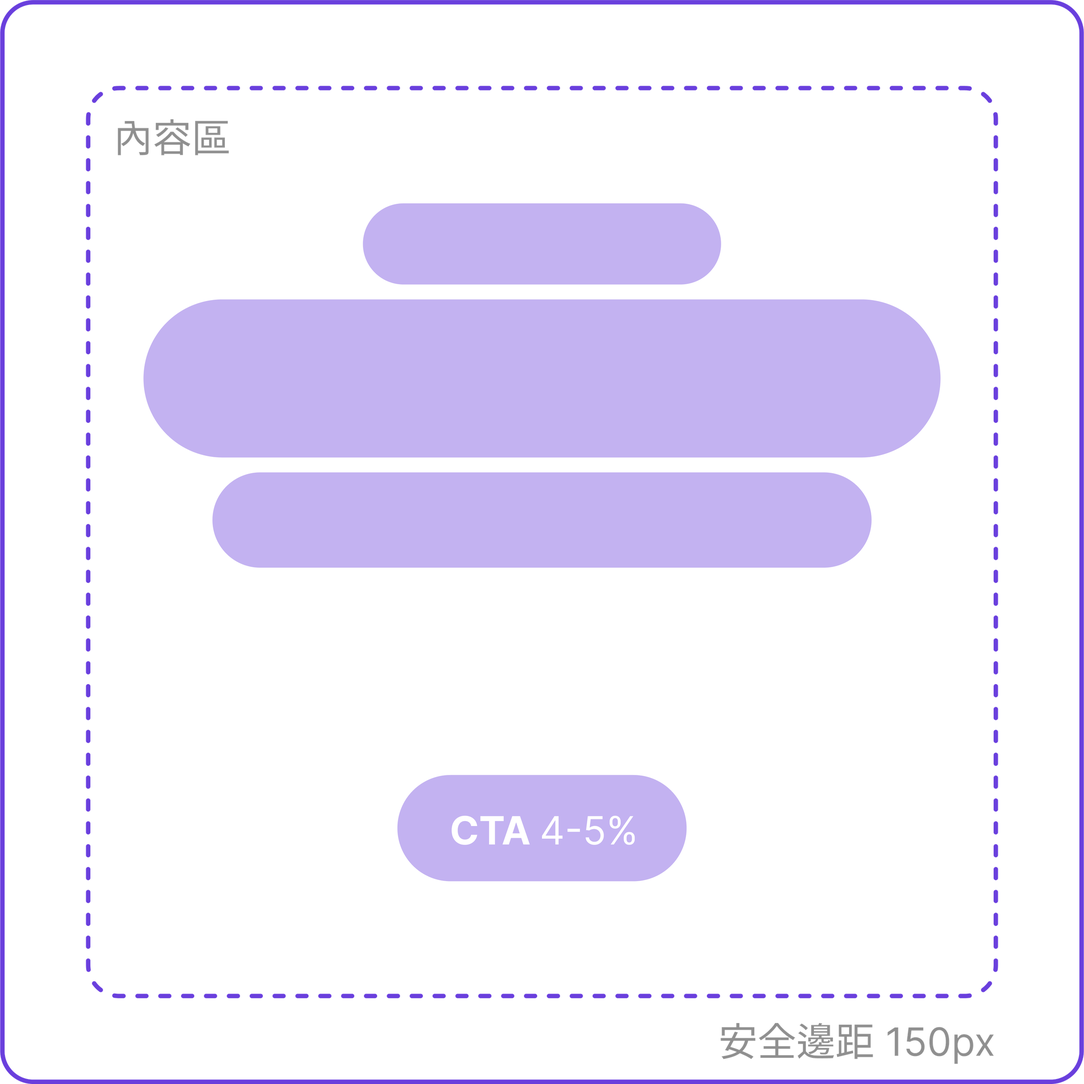
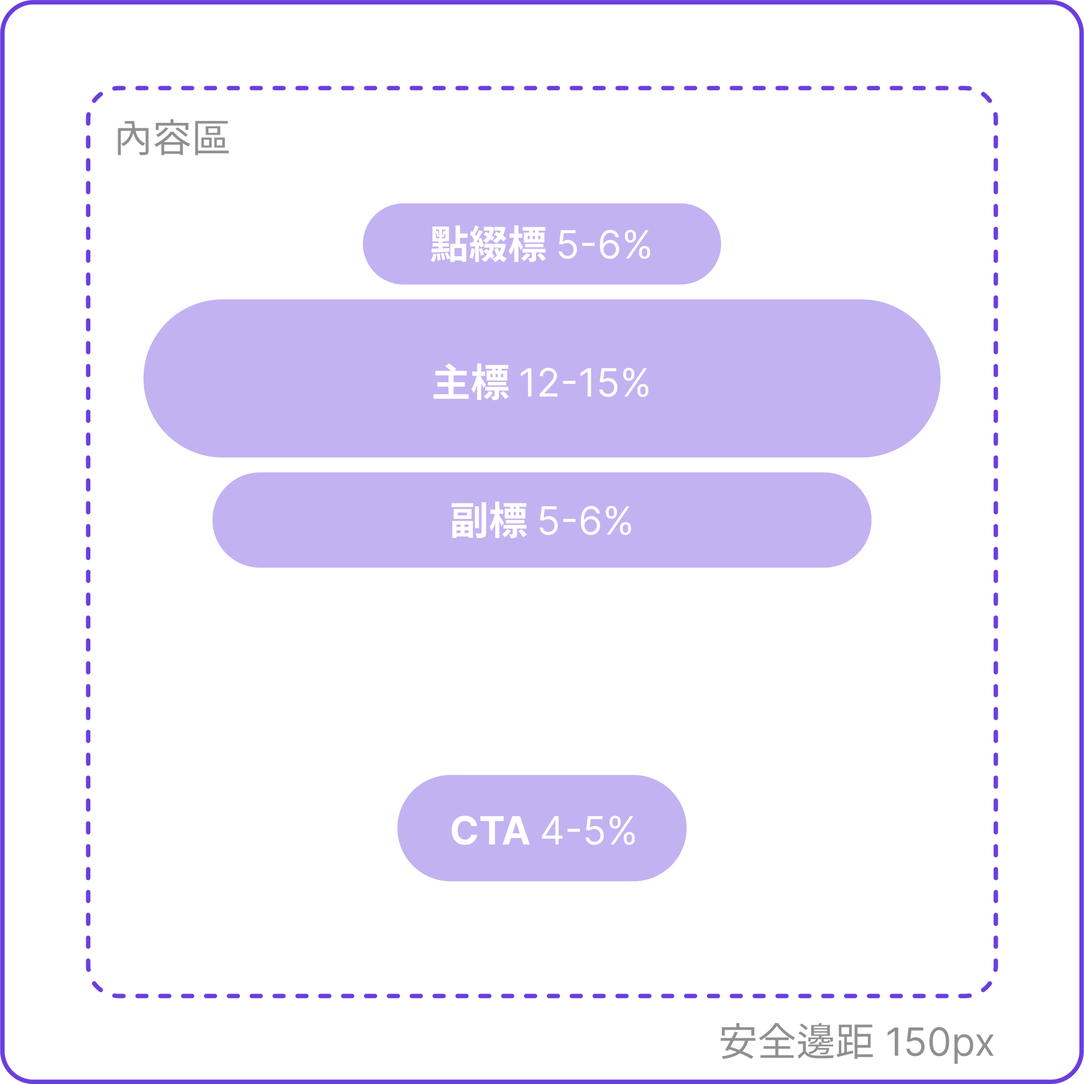
14 Prompt Skill: Rolled 條件改為對應產出圖的兩組模板、移除生成次數與規則行、Persona 按鈕加寬間距、更新 skill-01 圖
Claude-Session: https://claude.ai/code/session_01GjEy689vh6dg91TD7dTNVD

Changed region(s): [[0.375, 0.1851, 0.5938, 0.2468], [0.4062, 0.4627, 0.5938, 0.4935], [0.4062, 0.3393, 0.5938, 0.3702]]

diff --git a/works/work-14-skill.html b/works/work-14-skill.html
@@ -7,7 +7,7 @@
 <meta name="description" content="Jade Shih 作品：AI 廣告閉環中的 Agent B，設計三層 Prompt Skill，讓 AI 依 Persona 自動產出品牌一致、構圖多變的廣告圖。">
 <link rel="stylesheet" href="../jade-portfolio-ds/tokens.css?v=202611131750">
 <link rel="stylesheet" href="../jade-portfolio-ds/components/bundle.css?v=202611131750">
-<link rel="stylesheet" href="../site.css?v=202611191557">
+<link rel="stylesheet" href="../site.css?v=202611191720">
 </head>
 <body>
 <a class="skip" href="#main">跳到主要內容</a>
@@ -38,7 +38,7 @@
     </div>
     <div class="cs-cards"></div>
     <div class="cs-gallery"></div>
-    <section class="cs-sec"><header class="cs-sec__head"><p class="eyebrow">Context</p><h2 class="cs-sec__title">The Ad Loop<small>廣告閉環</small></h2><p class="cs-sec__lead">團隊用四個 AI Agent 串起廣告從產出、投放到成效追蹤的閉環。我負責其中的 Agent B：把每個 Persona 轉成 AI 能穩定執行的視覺規則，自動產出廣告圖。</p></header><ol class="sk-loop"><li class="sk-agent"><span class="sk-agent__tag">團隊</span><b>Agent A</b><strong>Mike 大腦</strong><small>給予內容</small></li><li class="sk-agent__arrow" aria-hidden="true">→</li><li class="sk-agent is-me"><span class="sk-agent__tag">我負責</span><b>Agent B</b><strong>生成圖片</strong><small>Prompt Skill・自動產圖</small></li><li class="sk-agent__arrow" aria-hidden="true">→</li><li class="sk-agent"><span class="sk-agent__tag">團隊</span><b>Agent C</b><strong>投放 Google</strong><small>後台執行</small></li><li class="sk-agent__arrow" aria-hidden="true">→</li><li class="sk-agent"><span class="sk-agent__tag">團隊</span><b>Agent D</b><strong>追蹤成效</strong><small>分析結果、建議行動</small></li></ol></section><section class="cs-sec ch-problem"><header class="cs-sec__head"><p class="eyebrow">The problem</p><h2 class="cs-sec__title">The AI Dilemma<small>AI 生圖的兩難</small></h2></header><p class="ch-big">每次一樣會膩，<em>每次亂變會走鐘。</em></p><div class="ch-pains sk-pains"><article class="ch-pain"><span class="ch-pain__no">01</span><h3>每次都一樣</h3><p>同一套 prompt 反覆產圖，構圖、角度都相同，受眾很快就看膩，廣告素材疲勞。</p></article><article class="ch-pain"><span class="ch-pain__no">02</span><h3>每次都亂變</h3><p>放任 AI 自由發揮，色系、風格、文字大小每張都不同，品牌感直接走鐘。</p></article></div></section><section class="cs-sec"><header class="cs-sec__head"><p class="eyebrow">The system</p><h2 class="cs-sec__title">Three-layer Prompt<small>三層 Prompt 架構</small></h2><p class="cs-sec__lead">我把一張廣告圖拆成「不能變」「可以怎麼變」「怎麼變」三層，品牌一致性和視覺多樣性就不再互相衝突。</p></header><div class="sk-layers"><article class="sk-layer" data-tone="lime"><p class="sk-layer__no">Layer 1</p><h3>Persona 固定元素<small>負責「不能變的」</small></h3><p>每個 Persona 一套固定規格：色系、背景公式、面板風格、是否使用作者照片、禁用色。</p><span class="sk-layer__goal">→ 確保品牌一致</span></article><article class="sk-layer" data-tone="cyan"><p class="sk-layer__no">Layer 2</p><h3>Variation Pool<small>負責「可以怎麼變」</small></h3><p>構圖、鏡頭角度、光線、面板數量與排列、人物姿勢、文字對齊、CTA 樣式等 9 個維度，每次各抽一個。</p><span class="sk-layer__goal">→ 確保視覺多樣</span></article><article class="sk-layer" data-tone="pink"><p class="sk-layer__no">Layer 3</p><h3>規則與模板<small>負責「怎麼變」</small></h3><p>Persona 的色系與文案必須保留；構圖、比例、場景每次都要變化，禁止重複同一套路，並從作者主視覺型、產品主視覺型等視覺架構中隨機選一種，最後輸出成 prompt。</p><span class="sk-layer__goal">→ 確保穩定可執行</span></article></div><p class="sk-loopnote">✦ 每次抽選結果回傳 Agent D 存檔，下次由 Agent A 帶入 previous_selections，構圖保證不重複。</p></section><section class="cs-sec"><header class="cs-sec__head"><p class="eyebrow">Try it</p><h2 class="cs-sec__title">Roll the Skill<small>試玩 Skill</small></h2><p class="cs-sec__lead">選一個 Persona，按下「重新抽選構圖」，看看哪些元素固定、哪些每次都換。</p></header><div class="sk-demo" data-personas="[{&quot;id&quot;: &quot;01&quot;, &quot;name&quot;: &quot;美股策略進階型&quot;, &quot;colors&quot;: [&quot;#050D1A&quot;, &quot;#00FFFF&quot;, &quot;#002366&quot;], &quot;fixed&quot;: [&quot;Glassmorphism 磨砂玻璃面板&quot;, &quot;作者照片，保留臉部特徵&quot;, &quot;深海藍底＋電光青放射光暈&quot;], &quot;imgs&quot;: [&quot;persona1-01&quot;, &quot;persona1-01-1&quot;], &quot;dims&quot;: {&quot;構圖鏡頭&quot;: [&quot;正面平視&quot;, &quot;低角度仰視 15°&quot;, &quot;微俯視 10°&quot;, &quot;45 度斜角&quot;], &quot;人物位置&quot;: [&quot;畫面正中央&quot;, &quot;偏左 40%&quot;, &quot;偏右 40%&quot;, &quot;略偏左居中&quot;], &quot;人物姿勢&quot;: [&quot;食指向上指向面板&quot;, &quot;雙手操作左右面板&quot;, &quot;側邊伸手觸碰面板&quot;, &quot;雙臂交叉自信站立&quot;, &quot;手持手機展示螢幕&quot;, &quot;側身 45 度回望面板&quot;], &quot;面板排列&quot;: [&quot;四角圍繞人物&quot;, &quot;右側垂直疊排&quot;, &quot;左側垂直疊排&quot;, &quot;人物前方弧形排列&quot;, &quot;背景大面板＋前景小面板&quot;, &quot;左右大面板夾住人物&quot;], &quot;光線&quot;: [&quot;正面面板光&quot;, &quot;左側強烈側光&quot;, &quot;右側光＋底部光束&quot;, &quot;背光輪廓光&quot;, &quot;頂部戲劇聚光&quot;], &quot;CTA 樣式&quot;: [&quot;3D 膠囊按鈕&quot;, &quot;發光膠囊&quot;, &quot;底部漸層橫條&quot;]}}, {&quot;id&quot;: &quot;02&quot;, &quot;name&quot;: &quot;財務翻身焦慮型&quot;, &quot;colors&quot;: [&quot;#0D0014&quot;, &quot;#3B0070&quot;, &quot;#CC44FF&quot;], &quot;fixed&quot;: [&quot;手機必定出現，紫色交易介面&quot;, &quot;霓虹紫膠囊 CTA，黃白雙色字&quot;, &quot;禁用青色與暖色&quot;], &quot;imgs&quot;: [&quot;persona2-01&quot;, &quot;persona2-02&quot;], &quot;dims&quot;: {&quot;場景類型&quot;: [&quot;人物主體型&quot;, &quot;物件主體型（巨型手機）&quot;, &quot;抽象概念型&quot;], &quot;面板數量&quot;: [&quot;1 個全幅面板&quot;, &quot;2 個面板&quot;, &quot;3 個面板&quot;, &quot;4 個面板&quot;], &quot;面板內容&quot;: [&quot;K 線圖＋量能柱狀圖&quot;, &quot;複利成長＋資產配置圓餅&quot;, &quot;P/E 儀表盤＋決策流程&quot;, &quot;投資組合熱力圖＋風險儀表&quot;], &quot;構圖鏡頭&quot;: [&quot;正面平視&quot;, &quot;低角度仰視 15°&quot;, &quot;微俯視 10°&quot;, &quot;45 度斜角&quot;], &quot;光線&quot;: [&quot;正面面板光&quot;, &quot;左側強烈側光&quot;, &quot;右側光＋底部光束&quot;, &quot;背光輪廓光&quot;, &quot;頂部戲劇聚光&quot;]}}, {&quot;id&quot;: &quot;03&quot;, &quot;name&quot;: &quot;家庭資產規劃型&quot;, &quot;colors&quot;: [&quot;#102030&quot;, &quot;#99C9F9&quot;, &quot;#FFD700&quot;], &quot;fixed&quot;: [&quot;單手前伸強透視，85mm 淺景深&quot;, &quot;多層玻璃平台＋暖金核心光&quot;, &quot;不使用作者照片與數據面板&quot;], &quot;imgs&quot;: [&quot;persona3-01&quot;, &quot;persona3-02&quot;], &quot;dims&quot;: {&quot;手上資產&quot;: [&quot;迷你房產＋金幣堆＋ETF 方塊&quot;, &quot;金條＋複利時鐘＋植物嫩芽&quot;, &quot;家庭人偶＋存錢罐＋K 線水晶&quot;, &quot;保險箱＋牛市雕像＋鈔票束&quot;], &quot;光線&quot;: [&quot;正面柔光&quot;, &quot;左側強烈側光&quot;, &quot;背光輪廓光&quot;, &quot;頂部戲劇聚光&quot;], &quot;文字對齊&quot;: [&quot;置中對齊&quot;, &quot;左對齊（手偏右）&quot;, &quot;右對齊（手偏左）&quot;]}}, {&quot;id&quot;: &quot;04&quot;, &quot;name&quot;: &quot;資訊過載學習型&quot;, &quot;colors&quot;: [&quot;#000000&quot;, &quot;#D4A251&quot;, &quot;#FCEABD&quot;], &quot;fixed&quot;: [&quot;深色模式股市 App 手機&quot;, &quot;1–2 條金色光流曲線&quot;, &quot;極簡奢華，不用玻璃面板&quot;], &quot;imgs&quot;: [&quot;persona4-01&quot;, &quot;persona4-01-1&quot;], &quot;dims&quot;: {&quot;人物位置&quot;: [&quot;人物在右、手機在左下&quot;, &quot;人物在左、手機在右下&quot;], &quot;光流方向&quot;: [&quot;左下往右上弧&quot;, &quot;右上往左下弧&quot;], &quot;文字對齊&quot;: [&quot;跟人物相反側：左側留白&quot;, &quot;跟人物相反側：右側留白&quot;]}}, {&quot;id&quot;: &quot;05&quot;, &quot;name&quot;: &quot;AI／成長機會追蹤型&quot;, &quot;colors&quot;: [&quot;#050D1A&quot;, &quot;#00FFFF&quot;, &quot;#002366&quot;], &quot;fixed&quot;: [&quot;資料收斂：光帶向主體匯流&quot;, &quot;85mm f/1.4 極淺景深&quot;, &quot;不使用任何 UI 面板&quot;], &quot;imgs&quot;: [&quot;persona5-01&quot;, &quot;persona5-02&quot;], &quot;dims&quot;: {&quot;臉部主光&quot;: [&quot;正面柔光&quot;, &quot;左側強烈側光&quot;, &quot;右側光＋底部光束&quot;, &quot;背光輪廓光&quot;], &quot;文字對齊&quot;: [&quot;置中對齊&quot;, &quot;左對齊&quot;, &quot;右對齊&quot;], &quot;CTA 樣式&quot;: [&quot;3D 膠囊按鈕&quot;, &quot;發光膠囊&quot;, &quot;底部漸層橫條&quot;]}}]"><div class="sk-tabs" role="group" aria-label="選擇 Persona"><button type="button" class="sk-tab" data-i="0" aria-pressed="true"><i style="background:#00FFFF"></i>P1・美股策略進階型</button><button type="button" class="sk-tab" data-i="1" aria-pressed="false"><i style="background:#3B0070"></i>P2・財務翻身焦慮型</button><button type="button" class="sk-tab" data-i="2" aria-pressed="false"><i style="background:#99C9F9"></i>P3・家庭資產規劃型</button><button type="button" class="sk-tab" data-i="3" aria-pressed="false"><i style="background:#D4A251"></i>P4・資訊過載學習型</button><button type="button" class="sk-tab" data-i="4" aria-pressed="false"><i style="background:#00FFFF"></i>P5・AI／成長機會追蹤型</button></div><div class="sk-demo__body"><div class="sk-panel"><div class="sk-box sk-box--fixed"><p class="sk-box__label"><b>Locked</b>固定元素・不能變</p><div class="sk-sw"></div><ul class="sk-fixed"></ul></div><div class="sk-box sk-box--var"><p class="sk-box__label"><b>Rolled</b>本次抽選・可以變<span class="sk-run">第 1 次生成</span></p><dl class="sk-var"></dl><p class="sk-note">規則：上一次用過的選項，下一次一定換掉（previous_selections）。</p></div><div class="sk-rollwrap" data-theme="brand"><button type="button" class="jade-primary-button sk-roll"><span>重新抽選構圖</span><span class="jade-primary-button__icon" aria-hidden="true"><svg viewBox="0 0 24 24" fill="none" stroke="currentColor" stroke-width="2.4" stroke-linecap="round" stroke-linejoin="round"><path d="M21 12a9 9 0 1 1-3-6.7M21 4v5h-5"/></svg></span></button></div></div><figure class="sk-out"><picture class="sk-out__img" data-src="persona1-01"><source srcset="../public/works/work-14-skill/web-persona1-01.webp" type="image/webp"><img src="../public/works/work-14-skill/web-persona1-01.jpg" width="1200" height="1200" alt="Persona 產出範例" loading="lazy" decoding="async"></picture><picture class="sk-out__img" data-src="persona1-01-1" hidden><source srcset="../public/works/work-14-skill/web-persona1-01-1.webp" type="image/webp"><img src="../public/works/work-14-skill/web-persona1-01-1.jpg" width="1200" height="1200" alt="Persona 產出範例" loading="lazy" decoding="async"></picture><picture class="sk-out__img" data-src="persona2-01" hidden><source srcset="../public/works/work-14-skill/web-persona2-01.webp" type="image/webp"><img src="../public/works/work-14-skill/web-persona2-01.jpg" width="1200" height="1200" alt="Persona 產出範例" loading="lazy" decoding="async"></picture><picture class="sk-out__img" data-src="persona2-02" hidden><source srcset="../public/works/work-14-skill/web-persona2-02.webp" type="image/webp"><img src="../public/works/work-14-skill/web-persona2-02.jpg" width="1200" height="1200" alt="Persona 產出範例" loading="lazy" decoding="async"></picture><picture class="sk-out__img" data-src="persona3-01" hidden><source srcset="../public/works/work-14-skill/web-persona3-01.webp" type="image/webp"><img src="../public/works/work-14-skill/web-persona3-01.jpg" width="1200" height="1200" alt="Persona 產出範例" loading="lazy" decoding="async"></picture><picture class="sk-out__img" data-src="persona3-02" hidden><source srcset="../public/works/work-14-skill/web-persona3-02.webp" type="image/webp"><img src="../public/works/work-14-skill/web-persona3-02.jpg" width="1200" height="1200" alt="Persona 產出範例" loading="lazy" decoding="async"></picture><picture class="sk-out__img" data-src="persona4-01" hidden><source srcset="../public/works/work-14-skill/web-persona4-01.webp" type="image/webp"><img src="../public/works/work-14-skill/web-persona4-01.jpg" width="1200" height="1200" alt="Persona 產出範例" loading="lazy" decoding="async"></picture><picture class="sk-out__img" data-src="persona4-01-1" hidden><source srcset="../public/works/work-14-skill/web-persona4-01-1.webp" type="image/webp"><img src="../public/works/work-14-skill/web-persona4-01-1.jpg" width="1200" height="1200" alt="Persona 產出範例" loading="lazy" decoding="async"></picture><picture class="sk-out__img" data-src="persona5-01" hidden><source srcset="../public/works/work-14-skill/web-persona5-01.webp" type="image/webp"><img src="../public/works/work-14-skill/web-persona5-01.jpg" width="1200" height="1200" alt="Persona 產出範例" loading="lazy" decoding="async"></picture><picture class="sk-out__img" data-src="persona5-02" hidden><source srcset="../public/works/work-14-skill/web-persona5-02.webp" type="image/webp"><img src="../public/works/work-14-skill/web-persona5-02.jpg" width="1200" height="1200" alt="Persona 產出範例" loading="lazy" decoding="async"></picture><figcaption>實際產出範例</figcaption></figure></div></div></section><section class="cs-sec"><header class="cs-sec__head"><p class="eyebrow">Art direction</p><h2 class="cs-sec__title">Rules in the Prompt<small>把版面規範寫進 prompt</small></h2><p class="cs-sec__lead">AI 最常犯的錯是字太小、元素貼邊、資料塞太滿，所以我把設計師的版面判斷寫成量化規則，每份 prompt 都必須帶上。</p></header><div class="sk-rules sk-rules--img"><figure class="sk-rules__img"><picture><source srcset="../public/works/work-14-skill/web-skill-01.webp" type="image/webp"><img src="../public/works/work-14-skill/web-skill-01.png" width="2400" height="2399" alt="1080×1080 畫布的安全邊距與文字比例示意" loading="lazy" decoding="async"></picture></figure><ul class="sk-rulelist"><li><b>150px 安全邊距</b>四邊各留 150px 純背景，人物、面板、文字、光暈都不得超出內容區</li><li><b>文字用比例，不用形容詞</b>主標第二行佔畫面高 12–15%，副標 5–6%，避免 AI 把字縮到看不清</li><li><b>面板最多 3–4 個數據</b>數字要大、標籤 2–4 字，圖表佔面板 60% 以上，不塞密集表格</li><li><b>留出呼吸空間</b>副標與面板間距 ≥ 80px，CTA 底緣不低於 y=930</li></ul></div></section><section class="cs-sec"><header class="cs-sec__head"><p class="eyebrow">Results</p><h2 class="cs-sec__title">Five Personas<small>五種 Persona 成果</small></h2><p class="cs-sec__lead">同一個 Persona 色系風格一致，構圖每次不同。</p></header><div class="hcar sk-pcar"><div class="hcar__track"><figure class="hcar__item sk-pitem"><p class="sk-gcol__name"><i style="background:#00FFFF"></i>Persona 1<span>美股策略進階型</span></p><div class="sk-pimgs"><button type="button" class="sk-gimg" data-lb="gal" aria-label="放大檢視：美股策略進階型"><picture><source srcset="../public/works/work-14-skill/web-persona1-01.webp" type="image/webp"><img src="../public/works/work-14-skill/web-persona1-01.jpg" width="1200" height="1200" alt="美股策略進階型 廣告圖" loading="lazy" decoding="async"></picture></button><button type="button" class="sk-gimg" data-lb="gal" aria-label="放大檢視：美股策略進階型"><picture><source srcset="../public/works/work-14-skill/web-persona1-01-1.webp" type="image/webp"><img src="../public/works/work-14-skill/web-persona1-01-1.jpg" width="1200" height="1200" alt="美股策略進階型 廣告圖" loading="lazy" decoding="async"></picture></button></div></figure><figure class="hcar__item sk-pitem"><p class="sk-gcol__name"><i style="background:#3B0070"></i>Persona 2<span>財務翻身焦慮型</span></p><div class="sk-pimgs"><button type="button" class="sk-gimg" data-lb="gal" aria-label="放大檢視：財務翻身焦慮型"><picture><source srcset="../public/works/work-14-skill/web-persona2-01.webp" type="image/webp"><img src="../public/works/work-14-skill/web-persona2-01.jpg" width="1200" height="1200" alt="財務翻身焦慮型 廣告圖" loading="lazy" decoding="async"></picture></button><button type="button" class="sk-gimg" data-lb="gal" aria-label="放大檢視：財務翻身焦慮型"><picture><source srcset="../public/works/work-14-skill/web-persona2-02.webp" type="image/webp"><img src="../public/works/work-14-skill/web-persona2-02.jpg" width="1200" height="1200" alt="財務翻身焦慮型 廣告圖" loading="lazy" decoding="async"></picture></button></div></figure><figure class="hcar__item sk-pitem"><p class="sk-gcol__name"><i style="background:#99C9F9"></i>Persona 3<span>家庭資產規劃型</span></p><div class="sk-pimgs"><button type="button" class="sk-gimg" data-lb="gal" aria-label="放大檢視：家庭資產規劃型"><picture><source srcset="../public/works/work-14-skill/web-persona3-01.webp" type="image/webp"><img src="../public/works/work-14-skill/web-persona3-01.jpg" width="1200" height="1200" alt="家庭資產規劃型 廣告圖" loading="lazy" decoding="async"></picture></button><button type="button" class="sk-gimg" data-lb="gal" aria-label="放大檢視：家庭資產規劃型"><picture><source srcset="../public/works/work-14-skill/web-persona3-02.webp" type="image/webp"><img src="../public/works/work-14-skill/web-persona3-02.jpg" width="1200" height="1200" alt="家庭資產規劃型 廣告圖" loading="lazy" decoding="async"></picture></button></div></figure><figure class="hcar__item sk-pitem"><p class="sk-gcol__name"><i style="background:#D4A251"></i>Persona 4<span>資訊過載學習型</span></p><div class="sk-pimgs"><button type="button" class="sk-gimg" data-lb="gal" aria-label="放大檢視：資訊過載學習型"><picture><source srcset="../public/works/work-14-skill/web-persona4-01.webp" type="image/webp"><img src="../public/works/work-14-skill/web-persona4-01.jpg" width="1200" height="1200" alt="資訊過載學習型 廣告圖" loading="lazy" decoding="async"></picture></button><button type="button" class="sk-gimg" data-lb="gal" aria-label="放大檢視：資訊過載學習型"><picture><source srcset="../public/works/work-14-skill/web-persona4-01-1.webp" type="image/webp"><img src="../public/works/work-14-skill/web-persona4-01-1.jpg" width="1200" height="1200" alt="資訊過載學習型 廣告圖" loading="lazy" decoding="async"></picture></button></div></figure><figure class="hcar__item sk-pitem"><p class="sk-gcol__name"><i style="background:#00FFFF"></i>Persona 5<span>AI／成長機會追蹤型</span></p><div class="sk-pimgs"><button type="button" class="sk-gimg" data-lb="gal" aria-label="放大檢視：AI／成長機會追蹤型"><picture><source srcset="../public/works/work-14-skill/web-persona5-01.webp" type="image/webp"><img src="../public/works/work-14-skill/web-persona5-01.jpg" width="1200" height="1200" alt="AI／成長機會追蹤型 廣告圖" loading="lazy" decoding="async"></picture></button><button type="button" class="sk-gimg" data-lb="gal" aria-label="放大檢視：AI／成長機會追蹤型"><picture><source srcset="../public/works/work-14-skill/web-persona5-02.webp" type="image/webp"><img src="../public/works/work-14-skill/web-persona5-02.jpg" width="1200" height="1200" alt="AI／成長機會追蹤型 廣告圖" loading="lazy" decoding="async"></picture></button></div></figure></div><div class="kl-dots hcar__dots"></div></div></section><section class="cs-sec ch-result"><header class="cs-sec__head"><p class="eyebrow">Outcome</p><h2 class="cs-sec__title">What Happened Next<small>後續成果</small></h2></header><p class="ch-big ch-big--sm">同 Persona 保持色系風格一致、構圖隨機，<em>解決素材重複疲勞，又不破壞品牌感。</em></p></section>
+    <section class="cs-sec"><header class="cs-sec__head"><p class="eyebrow">Context</p><h2 class="cs-sec__title">The Ad Loop<small>廣告閉環</small></h2><p class="cs-sec__lead">團隊用四個 AI Agent 串起廣告從產出、投放到成效追蹤的閉環。我負責其中的 Agent B：把每個 Persona 轉成 AI 能穩定執行的視覺規則，自動產出廣告圖。</p></header><ol class="sk-loop"><li class="sk-agent"><span class="sk-agent__tag">團隊</span><b>Agent A</b><strong>Mike 大腦</strong><small>給予內容</small></li><li class="sk-agent__arrow" aria-hidden="true">→</li><li class="sk-agent is-me"><span class="sk-agent__tag">我負責</span><b>Agent B</b><strong>生成圖片</strong><small>Prompt Skill・自動產圖</small></li><li class="sk-agent__arrow" aria-hidden="true">→</li><li class="sk-agent"><span class="sk-agent__tag">團隊</span><b>Agent C</b><strong>投放 Google</strong><small>後台執行</small></li><li class="sk-agent__arrow" aria-hidden="true">→</li><li class="sk-agent"><span class="sk-agent__tag">團隊</span><b>Agent D</b><strong>追蹤成效</strong><small>分析結果、建議行動</small></li></ol></section><section class="cs-sec ch-problem"><header class="cs-sec__head"><p class="eyebrow">The problem</p><h2 class="cs-sec__title">The AI Dilemma<small>AI 生圖的兩難</small></h2></header><p class="ch-big">每次一樣會膩，<em>每次亂變會走鐘。</em></p><div class="ch-pains sk-pains"><article class="ch-pain"><span class="ch-pain__no">01</span><h3>每次都一樣</h3><p>同一套 prompt 反覆產圖，構圖、角度都相同，受眾很快就看膩，廣告素材疲勞。</p></article><article class="ch-pain"><span class="ch-pain__no">02</span><h3>每次都亂變</h3><p>放任 AI 自由發揮，色系、風格、文字大小每張都不同，品牌感直接走鐘。</p></article></div></section><section class="cs-sec"><header class="cs-sec__head"><p class="eyebrow">The system</p><h2 class="cs-sec__title">Three-layer Prompt<small>三層 Prompt 架構</small></h2><p class="cs-sec__lead">我把一張廣告圖拆成「不能變」「可以怎麼變」「怎麼變」三層，品牌一致性和視覺多樣性就不再互相衝突。</p></header><div class="sk-layers"><article class="sk-layer" data-tone="lime"><p class="sk-layer__no">Layer 1</p><h3>Persona 固定元素<small>負責「不能變的」</small></h3><p>每個 Persona 一套固定規格：色系、背景公式、面板風格、是否使用作者照片、禁用色。</p><span class="sk-layer__goal">→ 確保品牌一致</span></article><article class="sk-layer" data-tone="cyan"><p class="sk-layer__no">Layer 2</p><h3>Variation Pool<small>負責「可以怎麼變」</small></h3><p>構圖、鏡頭角度、光線、面板數量與排列、人物姿勢、文字對齊、CTA 樣式等 9 個維度，每次各抽一個。</p><span class="sk-layer__goal">→ 確保視覺多樣</span></article><article class="sk-layer" data-tone="pink"><p class="sk-layer__no">Layer 3</p><h3>規則與模板<small>負責「怎麼變」</small></h3><p>Persona 的色系與文案必須保留；構圖、比例、場景每次都要變化，禁止重複同一套路，並從作者主視覺型、產品主視覺型等視覺架構中隨機選一種，最後輸出成 prompt。</p><span class="sk-layer__goal">→ 確保穩定可執行</span></article></div><p class="sk-loopnote">✦ 每次抽選結果回傳 Agent D 存檔，下次由 Agent A 帶入 previous_selections，構圖保證不重複。</p></section><section class="cs-sec"><header class="cs-sec__head"><p class="eyebrow">Try it</p><h2 class="cs-sec__title">Roll the Skill<small>試玩 Skill</small></h2><p class="cs-sec__lead">選一個 Persona，按下「重新抽選構圖」，看看哪些元素固定、哪些每次都換。</p></header><div class="sk-demo" data-personas="[{&quot;id&quot;: &quot;01&quot;, &quot;name&quot;: &quot;美股策略進階型&quot;, &quot;colors&quot;: [&quot;#050D1A&quot;, &quot;#00FFFF&quot;, &quot;#002366&quot;], &quot;fixed&quot;: [&quot;Glassmorphism 磨砂玻璃面板&quot;, &quot;作者照片，保留臉部特徵&quot;, &quot;深海藍底＋電光青放射光暈&quot;], &quot;imgs&quot;: [&quot;persona1-01&quot;, &quot;persona1-01-1&quot;], &quot;tpls&quot;: [{&quot;構圖鏡頭&quot;: &quot;正面平視&quot;, &quot;人物位置&quot;: &quot;畫面中央・人物放大&quot;, &quot;人物姿勢&quot;: &quot;雙手伸向左右面板&quot;, &quot;面板排列&quot;: &quot;四角圍繞人物&quot;, &quot;光線&quot;: &quot;正面面板光&quot;, &quot;CTA 樣式&quot;: &quot;底部發光按鈕&quot;}, {&quot;構圖鏡頭&quot;: &quot;正面平視&quot;, &quot;人物位置&quot;: &quot;畫面中央・人物縮小&quot;, &quot;人物姿勢&quot;: &quot;側身站立、手插口袋&quot;, &quot;面板排列&quot;: &quot;左右大面板夾住人物&quot;, &quot;光線&quot;: &quot;背光輪廓光&quot;, &quot;CTA 樣式&quot;: &quot;發光膠囊&quot;}]}, {&quot;id&quot;: &quot;02&quot;, &quot;name&quot;: &quot;財務翻身焦慮型&quot;, &quot;colors&quot;: [&quot;#0D0014&quot;, &quot;#3B0070&quot;, &quot;#CC44FF&quot;], &quot;fixed&quot;: [&quot;手機必定出現，紫色交易介面&quot;, &quot;霓虹紫膠囊 CTA，黃白雙色字&quot;, &quot;禁用青色與暖色&quot;], &quot;imgs&quot;: [&quot;persona2-01&quot;, &quot;persona2-02&quot;], &quot;tpls&quot;: [{&quot;場景類型&quot;: &quot;物件主體型（巨型手機）&quot;, &quot;面板數量&quot;: &quot;4 個面板&quot;, &quot;面板內容&quot;: &quot;複利成長＋資產配置圓餅&quot;, &quot;光線&quot;: &quot;頂部聚光＋地面光格&quot;}, {&quot;場景類型&quot;: &quot;人物主體型（手持平板）&quot;, &quot;面板數量&quot;: &quot;4 個面板&quot;, &quot;面板內容&quot;: &quot;選股篩選＋投資組合＋勝率儀表&quot;, &quot;光線&quot;: &quot;平板光由下照亮人物&quot;}]}, {&quot;id&quot;: &quot;03&quot;, &quot;name&quot;: &quot;家庭資產規劃型&quot;, &quot;colors&quot;: [&quot;#102030&quot;, &quot;#99C9F9&quot;, &quot;#FFD700&quot;], &quot;fixed&quot;: [&quot;單手前伸強透視，85mm 淺景深&quot;, &quot;多層玻璃平台＋暖金核心光&quot;, &quot;不使用作者照片與數據面板&quot;], &quot;imgs&quot;: [&quot;persona3-01&quot;, &quot;persona3-02&quot;], &quot;tpls&quot;: [{&quot;手上資產&quot;: &quot;迷你房產＋家庭人偶＋金幣＋SPY 方塊&quot;, &quot;光線&quot;: &quot;頂部戲劇聚光&quot;, &quot;文字位置&quot;: &quot;右側（手偏左）&quot;}, {&quot;手上資產&quot;: &quot;金條＋複利時鐘＋植物嫩芽&quot;, &quot;光線&quot;: &quot;正面柔光&quot;, &quot;文字位置&quot;: &quot;上方置中&quot;}]}, {&quot;id&quot;: &quot;04&quot;, &quot;name&quot;: &quot;資訊過載學習型&quot;, &quot;colors&quot;: [&quot;#000000&quot;, &quot;#D4A251&quot;, &quot;#FCEABD&quot;], &quot;fixed&quot;: [&quot;深色模式股市 App 手機&quot;, &quot;1–2 條金色光流曲線&quot;, &quot;極簡奢華，不用玻璃面板&quot;], &quot;imgs&quot;: [&quot;persona4-01&quot;, &quot;persona4-01-1&quot;], &quot;tpls&quot;: [{&quot;人物位置&quot;: &quot;人物在左、手機在右下&quot;, &quot;光流方向&quot;: &quot;右上往左下弧&quot;, &quot;文字位置&quot;: &quot;右上留白&quot;}, {&quot;人物位置&quot;: &quot;人物在右、手機在左下&quot;, &quot;光流方向&quot;: &quot;左下往右上弧&quot;, &quot;文字位置&quot;: &quot;左上留白&quot;}]}, {&quot;id&quot;: &quot;05&quot;, &quot;name&quot;: &quot;AI／成長機會追蹤型&quot;, &quot;colors&quot;: [&quot;#050D1A&quot;, &quot;#00FFFF&quot;, &quot;#002366&quot;], &quot;fixed&quot;: [&quot;資料收斂：光帶向主體匯流&quot;, &quot;85mm f/1.4 極淺景深&quot;, &quot;不使用任何 UI 面板&quot;], &quot;imgs&quot;: [&quot;persona5-01&quot;, &quot;persona5-02&quot;], &quot;tpls&quot;: [{&quot;人物位置&quot;: &quot;偏右&quot;, &quot;臉部主光&quot;: &quot;右側光帶匯流&quot;, &quot;文字對齊&quot;: &quot;左對齊&quot;, &quot;CTA 樣式&quot;: &quot;發光膠囊&quot;}, {&quot;人物位置&quot;: &quot;畫面正中央&quot;, &quot;臉部主光&quot;: &quot;正面柔光＋光帶向中央匯流&quot;, &quot;文字對齊&quot;: &quot;置中對齊&quot;, &quot;CTA 樣式&quot;: &quot;底部小型膠囊&quot;}]}]"><div class="sk-tabs" role="group" aria-label="選擇 Persona"><button type="button" class="sk-tab" data-i="0" aria-pressed="true"><i style="background:#00FFFF"></i>P1・美股策略進階型</button><button type="button" class="sk-tab" data-i="1" aria-pressed="false"><i style="background:#3B0070"></i>P2・財務翻身焦慮型</button><button type="button" class="sk-tab" data-i="2" aria-pressed="false"><i style="background:#99C9F9"></i>P3・家庭資產規劃型</button><button type="button" class="sk-tab" data-i="3" aria-pressed="false"><i style="background:#D4A251"></i>P4・資訊過載學習型</button><button type="button" class="sk-tab" data-i="4" aria-pressed="false"><i style="background:#00FFFF"></i>P5・AI／成長機會追蹤型</button></div><div class="sk-demo__body"><div class="sk-panel"><div class="sk-box sk-box--fixed"><p class="sk-box__label"><b>Locked</b>固定元素・不能變</p><div class="sk-sw"></div><ul class="sk-fixed"></ul></div><div class="sk-box sk-box--var"><p class="sk-box__label"><b>Rolled</b>本次抽選・可以變</p><dl class="sk-var"></dl></div><div class="sk-rollwrap" data-theme="brand"><button type="button" class="jade-primary-button sk-roll"><span>重新抽選構圖</span><span class="jade-primary-button__icon" aria-hidden="true"><svg viewBox="0 0 24 24" fill="none" stroke="currentColor" stroke-width="2.4" stroke-linecap="round" stroke-linejoin="round"><path d="M21 12a9 9 0 1 1-3-6.7M21 4v5h-5"/></svg></span></button></div></div><figure class="sk-out"><picture class="sk-out__img" data-src="persona1-01"><source srcset="../public/works/work-14-skill/web-persona1-01.webp" type="image/webp"><img src="../public/works/work-14-skill/web-persona1-01.jpg" width="1200" height="1200" alt="Persona 產出範例" loading="lazy" decoding="async"></picture><picture class="sk-out__img" data-src="persona1-01-1" hidden><source srcset="../public/works/work-14-skill/web-persona1-01-1.webp" type="image/webp"><img src="../public/works/work-14-skill/web-persona1-01-1.jpg" width="1200" height="1200" alt="Persona 產出範例" loading="lazy" decoding="async"></picture><picture class="sk-out__img" data-src="persona2-01" hidden><source srcset="../public/works/work-14-skill/web-persona2-01.webp" type="image/webp"><img src="../public/works/work-14-skill/web-persona2-01.jpg" width="1200" height="1200" alt="Persona 產出範例" loading="lazy" decoding="async"></picture><picture class="sk-out__img" data-src="persona2-02" hidden><source srcset="../public/works/work-14-skill/web-persona2-02.webp" type="image/webp"><img src="../public/works/work-14-skill/web-persona2-02.jpg" width="1200" height="1200" alt="Persona 產出範例" loading="lazy" decoding="async"></picture><picture class="sk-out__img" data-src="persona3-01" hidden><source srcset="../public/works/work-14-skill/web-persona3-01.webp" type="image/webp"><img src="../public/works/work-14-skill/web-persona3-01.jpg" width="1200" height="1200" alt="Persona 產出範例" loading="lazy" decoding="async"></picture><picture class="sk-out__img" data-src="persona3-02" hidden><source srcset="../public/works/work-14-skill/web-persona3-02.webp" type="image/webp"><img src="../public/works/work-14-skill/web-persona3-02.jpg" width="1200" height="1200" alt="Persona 產出範例" loading="lazy" decoding="async"></picture><picture class="sk-out__img" data-src="persona4-01" hidden><source srcset="../public/works/work-14-skill/web-persona4-01.webp" type="image/webp"><img src="../public/works/work-14-skill/web-persona4-01.jpg" width="1200" height="1200" alt="Persona 產出範例" loading="lazy" decoding="async"></picture><picture class="sk-out__img" data-src="persona4-01-1" hidden><source srcset="../public/works/work-14-skill/web-persona4-01-1.webp" type="image/webp"><img src="../public/works/work-14-skill/web-persona4-01-1.jpg" width="1200" height="1200" alt="Persona 產出範例" loading="lazy" decoding="async"></picture><picture class="sk-out__img" data-src="persona5-01" hidden><source srcset="../public/works/work-14-skill/web-persona5-01.webp" type="image/webp"><img src="../public/works/work-14-skill/web-persona5-01.jpg" width="1200" height="1200" alt="Persona 產出範例" loading="lazy" decoding="async"></picture><picture class="sk-out__img" data-src="persona5-02" hidden><source srcset="../public/works/work-14-skill/web-persona5-02.webp" type="image/webp"><img src="../public/works/work-14-skill/web-persona5-02.jpg" width="1200" height="1200" alt="Persona 產出範例" loading="lazy" decoding="async"></picture><figcaption>實際產出範例</figcaption></figure></div></div></section><section class="cs-sec"><header class="cs-sec__head"><p class="eyebrow">Art direction</p><h2 class="cs-sec__title">Rules in the Prompt<small>把版面規範寫進 prompt</small></h2><p class="cs-sec__lead">AI 最常犯的錯是字太小、元素貼邊、資料塞太滿，所以我把設計師的版面判斷寫成量化規則，每份 prompt 都必須帶上。</p></header><div class="sk-rules sk-rules--img"><figure class="sk-rules__img"><picture><source srcset="../public/works/work-14-skill/web-skill-01.webp?v=1119d" type="image/webp"><img src="../public/works/work-14-skill/web-skill-01.png?v=1119d" width="2400" height="2399" alt="1080×1080 畫布的安全邊距與文字比例示意" loading="lazy" decoding="async"></picture></figure><ul class="sk-rulelist"><li><b>150px 安全邊距</b>四邊各留 150px 純背景，人物、面板、文字、光暈都不得超出內容區</li><li><b>文字用比例，不用形容詞</b>主標第二行佔畫面高 12–15%，副標 5–6%，避免 AI 把字縮到看不清</li><li><b>面板最多 3–4 個數據</b>數字要大、標籤 2–4 字，圖表佔面板 60% 以上，不塞密集表格</li><li><b>留出呼吸空間</b>副標與面板間距 ≥ 80px，CTA 底緣不低於 y=930</li></ul></div></section><section class="cs-sec"><header class="cs-sec__head"><p class="eyebrow">Results</p><h2 class="cs-sec__title">Five Personas<small>五種 Persona 成果</small></h2><p class="cs-sec__lead">同一個 Persona 色系風格一致，構圖每次不同。</p></header><div class="hcar sk-pcar"><div class="hcar__track"><figure class="hcar__item sk-pitem"><p class="sk-gcol__name"><i style="background:#00FFFF"></i>Persona 1<span>美股策略進階型</span></p><div class="sk-pimgs"><button type="button" class="sk-gimg" data-lb="gal" aria-label="放大檢視：美股策略進階型"><picture><source srcset="../public/works/work-14-skill/web-persona1-01.webp" type="image/webp"><img src="../public/works/work-14-skill/web-persona1-01.jpg" width="1200" height="1200" alt="美股策略進階型 廣告圖" loading="lazy" decoding="async"></picture></button><button type="button" class="sk-gimg" data-lb="gal" aria-label="放大檢視：美股策略進階型"><picture><source srcset="../public/works/work-14-skill/web-persona1-01-1.webp" type="image/webp"><img src="../public/works/work-14-skill/web-persona1-01-1.jpg" width="1200" height="1200" alt="美股策略進階型 廣告圖" loading="lazy" decoding="async"></picture></button></div></figure><figure class="hcar__item sk-pitem"><p class="sk-gcol__name"><i style="background:#3B0070"></i>Persona 2<span>財務翻身焦慮型</span></p><div class="sk-pimgs"><button type="button" class="sk-gimg" data-lb="gal" aria-label="放大檢視：財務翻身焦慮型"><picture><source srcset="../public/works/work-14-skill/web-persona2-01.webp" type="image/webp"><img src="../public/works/work-14-skill/web-persona2-01.jpg" width="1200" height="1200" alt="財務翻身焦慮型 廣告圖" loading="lazy" decoding="async"></picture></button><button type="button" class="sk-gimg" data-lb="gal" aria-label="放大檢視：財務翻身焦慮型"><picture><source srcset="../public/works/work-14-skill/web-persona2-02.webp" type="image/webp"><img src="../public/works/work-14-skill/web-persona2-02.jpg" width="1200" height="1200" alt="財務翻身焦慮型 廣告圖" loading="lazy" decoding="async"></picture></button></div></figure><figure class="hcar__item sk-pitem"><p class="sk-gcol__name"><i style="background:#99C9F9"></i>Persona 3<span>家庭資產規劃型</span></p><div class="sk-pimgs"><button type="button" class="sk-gimg" data-lb="gal" aria-label="放大檢視：家庭資產規劃型"><picture><source srcset="../public/works/work-14-skill/web-persona3-01.webp" type="image/webp"><img src="../public/works/work-14-skill/web-persona3-01.jpg" width="1200" height="1200" alt="家庭資產規劃型 廣告圖" loading="lazy" decoding="async"></picture></button><button type="button" class="sk-gimg" data-lb="gal" aria-label="放大檢視：家庭資產規劃型"><picture><source srcset="../public/works/work-14-skill/web-persona3-02.webp" type="image/webp"><img src="../public/works/work-14-skill/web-persona3-02.jpg" width="1200" height="1200" alt="家庭資產規劃型 廣告圖" loading="lazy" decoding="async"></picture></button></div></figure><figure class="hcar__item sk-pitem"><p class="sk-gcol__name"><i style="background:#D4A251"></i>Persona 4<span>資訊過載學習型</span></p><div class="sk-pimgs"><button type="button" class="sk-gimg" data-lb="gal" aria-label="放大檢視：資訊過載學習型"><picture><source srcset="../public/works/work-14-skill/web-persona4-01.webp" type="image/webp"><img src="../public/works/work-14-skill/web-persona4-01.jpg" width="1200" height="1200" alt="資訊過載學習型 廣告圖" loading="lazy" decoding="async"></picture></button><button type="button" class="sk-gimg" data-lb="gal" aria-label="放大檢視：資訊過載學習型"><picture><source srcset="../public/works/work-14-skill/web-persona4-01-1.webp" type="image/webp"><img src="../public/works/work-14-skill/web-persona4-01-1.jpg" width="1200" height="1200" alt="資訊過載學習型 廣告圖" loading="lazy" decoding="async"></picture></button></div></figure><figure class="hcar__item sk-pitem"><p class="sk-gcol__name"><i style="background:#00FFFF"></i>Persona 5<span>AI／成長機會追蹤型</span></p><div class="sk-pimgs"><button type="button" class="sk-gimg" data-lb="gal" aria-label="放大檢視：AI／成長機會追蹤型"><picture><source srcset="../public/works/work-14-skill/web-persona5-01.webp" type="image/webp"><img src="../public/works/work-14-skill/web-persona5-01.jpg" width="1200" height="1200" alt="AI／成長機會追蹤型 廣告圖" loading="lazy" decoding="async"></picture></button><button type="button" class="sk-gimg" data-lb="gal" aria-label="放大檢視：AI／成長機會追蹤型"><picture><source srcset="../public/works/work-14-skill/web-persona5-02.webp" type="image/webp"><img src="../public/works/work-14-skill/web-persona5-02.jpg" width="1200" height="1200" alt="AI／成長機會追蹤型 廣告圖" loading="lazy" decoding="async"></picture></button></div></figure></div><div class="kl-dots hcar__dots"></div></div></section><section class="cs-sec ch-result"><header class="cs-sec__head"><p class="eyebrow">Outcome</p><h2 class="cs-sec__title">What Happened Next<small>後續成果</small></h2></header><p class="ch-big ch-big--sm">同 Persona 保持色系風格一致、構圖隨機，<em>解決素材重複疲勞，又不破壞品牌感。</em></p></section>
   </div>
 </section>
 
@@ -77,6 +77,6 @@
 
 <div class="ycur" id="ycur" aria-hidden="true"><svg viewBox="0 0 40 40"><path d="M5 3 L34 18 L20 21 L13 34 Z"/></svg><span class="ycur__tag">YOU</span></div>
 
-<script src="../site.js?v=202611191557"></script>
+<script src="../site.js?v=202611191720"></script>
 </body>
 </html>

diff --git a/site.js b/site.js
@@ -351,30 +351,28 @@
   });
 })();
 
-/* 14 Prompt Skill 試玩：選 Persona → 顯示固定元素；按「重新抽選構圖」→ 每個維度換成和上次不同的選項 */
+/* 14 Prompt Skill 試玩：選 Persona → 顯示固定元素；按「重新抽選構圖」→ 換到另一張產出，Rolled 條件同步顯示該圖的構圖描述 */
 (function(){
   [].forEach.call(document.querySelectorAll('.sk-demo'),function(demo){
     var P;try{P=JSON.parse(demo.getAttribute('data-personas'))}catch(e){return}
     var tabs=demo.querySelectorAll('.sk-tab'),sw=demo.querySelector('.sk-sw'),fx=demo.querySelector('.sk-fixed'),
-        dl=demo.querySelector('.sk-var'),run=demo.querySelector('.sk-run'),pics=demo.querySelectorAll('.sk-out__img'),
-        cur=0,prev={},n=0,imgI=0;
-    function pick(arr,not){var c=arr.filter(function(x){return x!==not});if(!c.length)c=arr;return c[Math.floor(Math.random()*c.length)]}
+        dl=demo.querySelector('.sk-var'),pics=demo.querySelectorAll('.sk-out__img'),cur=0,imgI=0;
     function esc(s){return String(s).replace(/[&<>"]/g,function(c){return {'&':'&amp;','<':'&lt;','>':'&gt;','"':'&quot;'}[c]})}
-    function showImg(){var p=P[cur],name=p.imgs[imgI%p.imgs.length];[].forEach.call(pics,function(el){el.hidden=el.getAttribute('data-src')!==name})}
-    function roll(first){
-      var p=P[cur],html='';n++;run.textContent='第 '+n+' 次生成';
-      Object.keys(p.dims).forEach(function(k){var v=pick(p.dims[k],first?null:prev[k]);prev[k]=v;html+='<dt>'+esc(k)+'</dt><dd class="is-new">'+esc(v)+'</dd>'});
-      dl.innerHTML=html;if(!first)imgI++;showImg();
+    function show(){
+      var p=P[cur],k=imgI%p.imgs.length,t=p.tpls[k],html='';
+      Object.keys(t).forEach(function(d){html+='<dt>'+esc(d)+'</dt><dd class="is-new">'+esc(t[d])+'</dd>'});
+      dl.innerHTML=html;
+      [].forEach.call(pics,function(el){el.hidden=el.getAttribute('data-src')!==p.imgs[k]});
     }
     function select(i){
-      cur=i;prev={};n=0;imgI=0;
+      cur=i;imgI=0;
       [].forEach.call(tabs,function(t,j){t.setAttribute('aria-pressed',j===i?'true':'false')});
       var p=P[i];sw.innerHTML=p.colors.map(function(c){return '<span style="--c:'+c+'">'+c+'</span>'}).join('');
       fx.innerHTML=p.fixed.map(function(f){return '<li>'+esc(f)+'</li>'}).join('');
-      roll(true);
+      show();
     }
     [].forEach.call(tabs,function(t,j){t.addEventListener('click',function(){select(j)})});
-    demo.querySelector('.sk-roll').addEventListener('click',function(){roll(false)});
+    demo.querySelector('.sk-roll').addEventListener('click',function(){imgI++;show()});
     select(0);
   });
 })();

diff --git a/site.css b/site.css
@@ -1220,10 +1220,10 @@ article.kl-prop.is-final:hover{border-color:var(--kl-ac)!important}
 /* 試玩 */
 .sk-demo{margin-top:clamp(28px,4vw,44px)}
 .sk-tabs{display:flex;flex-wrap:wrap;gap:10px;margin-bottom:clamp(18px,2vw,26px)}
-.sk-tab{display:inline-flex;align-items:center;gap:8px;padding:10px 16px;border:2px solid #34323F;border-radius:999px;background:transparent;color:#D9D6E5;font:700 14px/1 "Noto Sans TC",sans-serif;cursor:pointer;transition:background .2s,border-color .2s,color .2s}
-.sk-tab i{width:12px;height:12px;border-radius:50%;box-shadow:0 0 0 2px rgba(255,255,255,.15)}
-.sk-tab:hover{border-color:#A99BFF}
-.sk-tab[aria-pressed="true"]{background:#fff;border-color:#fff;color:#16143A}
+.sk-tab,.cs-sec .sk-tab{display:inline-flex;align-items:center;gap:10px;padding:10px 24px 10px 20px;border:2px solid #34323F;border-radius:999px;background:transparent;color:#D9D6E5;font:700 14px/1 "Noto Sans TC",sans-serif;cursor:pointer;transition:background .2s,border-color .2s,color .2s}
+.sk-tab i{flex:none;width:12px;height:12px;border-radius:50%;box-shadow:0 0 0 2px rgba(255,255,255,.15)}
+.sk-tab:hover,.cs-sec .sk-tab:hover{border-color:#A99BFF}
+.sk-tab[aria-pressed="true"],.cs-sec .sk-tab[aria-pressed="true"]{background:#fff;border-color:#fff;color:#16143A}
 .sk-tab:focus-visible,.sk-roll:focus-visible{outline:3px solid #C2FF0A;outline-offset:3px}
 .sk-demo__body{display:grid;grid-template-columns:minmax(0,1fr) minmax(0,1.05fr);gap:clamp(20px,3vw,44px);align-items:start}
 .sk-panel{display:grid;gap:16px;min-width:0}

diff --git a/works/work-15-calendar.html b/works/work-15-calendar.html
@@ -7,7 +7,7 @@
 <meta name="description" content="Jade Shih 作品：投資 App 的美股事件行事曆，從首頁提醒擴展為總體與個股事件頁，並定義時區、顯示區間與排序等資訊規則。">
 <link rel="stylesheet" href="../jade-portfolio-ds/tokens.css?v=202611131750">
 <link rel="stylesheet" href="../jade-portfolio-ds/components/bundle.css?v=202611131750">
-<link rel="stylesheet" href="../site.css?v=202611191557">
+<link rel="stylesheet" href="../site.css?v=202611191720">
 </head>
 <body>
 <a class="skip" href="#main">跳到主要內容</a>
@@ -77,6 +77,6 @@
 
 <div class="ycur" id="ycur" aria-hidden="true"><svg viewBox="0 0 40 40"><path d="M5 3 L34 18 L20 21 L13 34 Z"/></svg><span class="ycur__tag">YOU</span></div>
 
-<script src="../site.js?v=202611191557"></script>
+<script src="../site.js?v=202611191720"></script>
 </body>
 </html>

diff --git a/works/work-13-vip.html b/works/work-13-vip.html
@@ -7,7 +7,7 @@
 <meta name="description" content="Jade Shih 作品：APP 語音直播「前段免費、後段 VIP」權限切換功能，從問題定義、轉換設計到邊界情境與規格交付。">
 <link rel="stylesheet" href="../jade-portfolio-ds/tokens.css?v=202611131750">
 <link rel="stylesheet" href="../jade-portfolio-ds/components/bundle.css?v=202611131750">
-<link rel="stylesheet" href="../site.css?v=202611191557">
+<link rel="stylesheet" href="../site.css?v=202611191720">
 </head>
 <body>
 <a class="skip" href="#main">跳到主要內容</a>
@@ -77,6 +77,6 @@
 
 <div class="ycur" id="ycur" aria-hidden="true"><svg viewBox="0 0 40 40"><path d="M5 3 L34 18 L20 21 L13 34 Z"/></svg><span class="ycur__tag">YOU</span></div>
 
-<script src="../site.js?v=202611191557"></script>
+<script src="../site.js?v=202611191720"></script>
 </body>
 </html>

diff --git a/works/work-05-kolapp.html b/works/work-05-kolapp.html
@@ -7,7 +7,7 @@
 <meta name="description" content="Jade Shih 作品：YouTuber Better Leaf 好葉「好葉智能選股」APP 主視覺規劃、品牌識別與介面視覺。">
 <link rel="stylesheet" href="../jade-portfolio-ds/tokens.css?v=202611131750">
 <link rel="stylesheet" href="../jade-portfolio-ds/components/bundle.css?v=202611131750">
-<link rel="stylesheet" href="../site.css?v=202611191557">
+<link rel="stylesheet" href="../site.css?v=202611191720">
 </head>
 <body>
 <a class="skip" href="#main">跳到主要內容</a>
@@ -77,6 +77,6 @@
 
 <div class="ycur" id="ycur" aria-hidden="true"><svg viewBox="0 0 40 40"><path d="M5 3 L34 18 L20 21 L13 34 Z"/></svg><span class="ycur__tag">YOU</span></div>
 
-<script src="../site.js?v=202611191557"></script>
+<script src="../site.js?v=202611191720"></script>
 </body>
 </html>

diff --git a/works/work-08-pdp.html b/works/work-08-pdp.html
@@ -7,7 +7,7 @@
 <meta name="description" content="Jade Shih 作品：正官庄 × Mr. Donothing 聯名「凝神99禮盒」電商商品詳情頁（PDP）視覺設計。">
 <link rel="stylesheet" href="../jade-portfolio-ds/tokens.css?v=202611131750">
 <link rel="stylesheet" href="../jade-portfolio-ds/components/bundle.css?v=202611131750">
-<link rel="stylesheet" href="../site.css?v=202611191557">
+<link rel="stylesheet" href="../site.css?v=202611191720">
 </head>
 <body>
 <a class="skip" href="#main">跳到主要內容</a>
@@ -77,6 +77,6 @@
 
 <div class="ycur" id="ycur" aria-hidden="true"><svg viewBox="0 0 40 40"><path d="M5 3 L34 18 L20 21 L13 34 Z"/></svg><span class="ycur__tag">YOU</span></div>
 
-<script src="../site.js?v=202611191557"></script>
+<script src="../site.js?v=202611191720"></script>
 </body>
 </html>

diff --git a/works/work-06-chat.html b/works/work-06-chat.html
@@ -7,7 +7,7 @@
 <meta name="description" content="Jade Shih 作品：APP 聊天室訊息搜尋功能優化，從問題定義到解法設計與規格交付。">
 <link rel="stylesheet" href="../jade-portfolio-ds/tokens.css?v=202611131750">
 <link rel="stylesheet" href="../jade-portfolio-ds/components/bundle.css?v=202611131750">
-<link rel="stylesheet" href="../site.css?v=202611191557">
+<link rel="stylesheet" href="../site.css?v=202611191720">
 </head>
 <body>
 <a class="skip" href="#main">跳到主要內容</a>
@@ -77,6 +77,6 @@
 
 <div class="ycur" id="ycur" aria-hidden="true"><svg viewBox="0 0 40 40"><path d="M5 3 L34 18 L20 21 L13 34 Z"/></svg><span class="ycur__tag">YOU</span></div>
 
-<script src="../site.js?v=202611191557"></script>
+<script src="../site.js?v=202611191720"></script>
 </body>
 </html>

diff --git a/works/work-09-OPENLAB.html b/works/work-09-OPENLAB.html
@@ -7,7 +7,7 @@
 <meta name="description" content="Jade Shih 作品：CMoney 籌碼K線拉新用戶活動，日式扭蛋主題的互動式 Landing Page。">
 <link rel="stylesheet" href="../jade-portfolio-ds/tokens.css?v=202611131750">
 <link rel="stylesheet" href="../jade-portfolio-ds/components/bundle.css?v=202611131750">
-<link rel="stylesheet" href="../site.css?v=202611191557">
+<link rel="stylesheet" href="../site.css?v=202611191720">
 </head>
 <body>
 <a class="skip" href="#main">跳到主要內容</a>
@@ -77,6 +77,6 @@
 
 <div class="ycur" id="ycur" aria-hidden="true"><svg viewBox="0 0 40 40"><path d="M5 3 L34 18 L20 21 L13 34 Z"/></svg><span class="ycur__tag">YOU</span></div>
 
-<script src="../site.js?v=202611191557"></script>
+<script src="../site.js?v=202611191720"></script>
 </body>
 </html>

diff --git a/works/work-07-pdp.html b/works/work-07-pdp.html
@@ -7,7 +7,7 @@
 <meta name="description" content="Jade Shih 作品：易廣健康事業 天萃苑益生漾 電商商品詳情頁（PDP）視覺設計。">
 <link rel="stylesheet" href="../jade-portfolio-ds/tokens.css?v=202611131750">
 <link rel="stylesheet" href="../jade-portfolio-ds/components/bundle.css?v=202611131750">
-<link rel="stylesheet" href="../site.css?v=202611191557">
+<link rel="stylesheet" href="../site.css?v=202611191720">
 </head>
 <body>
 <a class="skip" href="#main">跳到主要內容</a>
@@ -77,6 +77,6 @@
 
 <div class="ycur" id="ycur" aria-hidden="true"><svg viewBox="0 0 40 40"><path d="M5 3 L34 18 L20 21 L13 34 Z"/></svg><span class="ycur__tag">YOU</span></div>
 
-<script src="../site.js?v=202611191557"></script>
+<script src="../site.js?v=202611191720"></script>
 </body>
 </html>

diff --git a/works/work-10-pdp.html b/works/work-10-pdp.html
@@ -7,7 +7,7 @@
 <meta name="description" content="Jade Shih 作品：正官庄「高麗蔘紅石榴飲」電商商品詳情頁（PDP）視覺設計。">
 <link rel="stylesheet" href="../jade-portfolio-ds/tokens.css?v=202611131750">
 <link rel="stylesheet" href="../jade-portfolio-ds/components/bundle.css?v=202611131750">
-<link rel="stylesheet" href="../site.css?v=202611191557">
+<link rel="stylesheet" href="../site.css?v=202611191720">
 </head>
 <body>
 <a class="skip" href="#main">跳到主要內容</a>
@@ -77,6 +77,6 @@
 
 <div class="ycur" id="ycur" aria-hidden="true"><svg viewBox="0 0 40 40"><path d="M5 3 L34 18 L20 21 L13 34 Z"/></svg><span class="ycur__tag">YOU</span></div>
 
-<script src="../site.js?v=202611191557"></script>
+<script src="../site.js?v=202611191720"></script>
 </body>
 </html>

diff --git a/about.html b/about.html
@@ -7,7 +7,7 @@
 <meta name="description" content="Jade Shih 的完整介紹：十年品牌平面、整合設計與 UI/UX 經歷、能力與工作方式。">
 <link rel="stylesheet" href="jade-portfolio-ds/tokens.css?v=202611131750">
 <link rel="stylesheet" href="jade-portfolio-ds/components/bundle.css?v=202611131750">
-<link rel="stylesheet" href="site.css?v=202611191557">
+<link rel="stylesheet" href="site.css?v=202611191720">
 </head>
 <body>
 <a class="skip" href="#main">跳到主要內容</a>
@@ -119,6 +119,6 @@
 
 <div class="ycur" id="ycur" aria-hidden="true"><svg viewBox="0 0 40 40"><path d="M5 3 L34 18 L20 21 L13 34 Z"/></svg><span class="ycur__tag">YOU</span></div>
 
-<script src="site.js?v=202611191557"></script>
+<script src="site.js?v=202611191720"></script>
 </body>
 </html>
